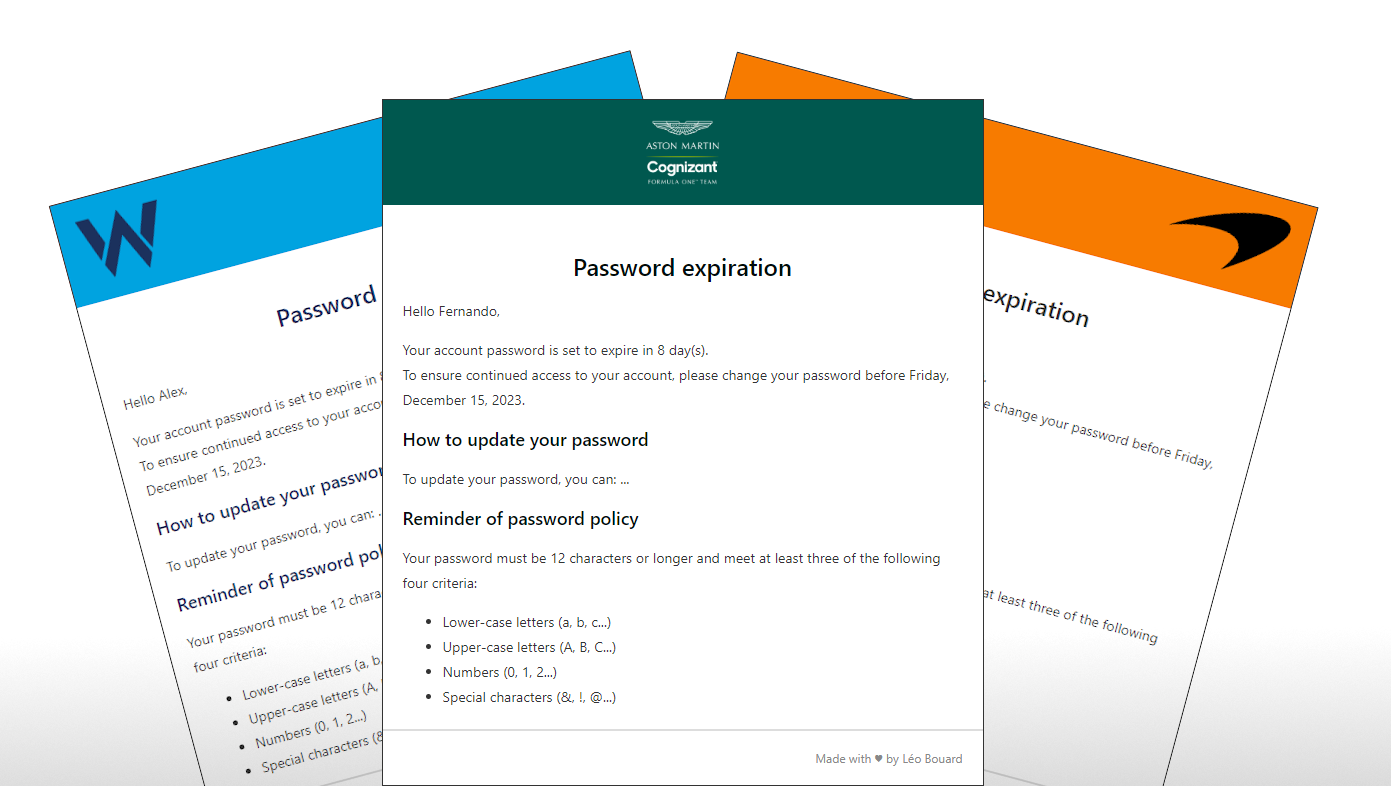
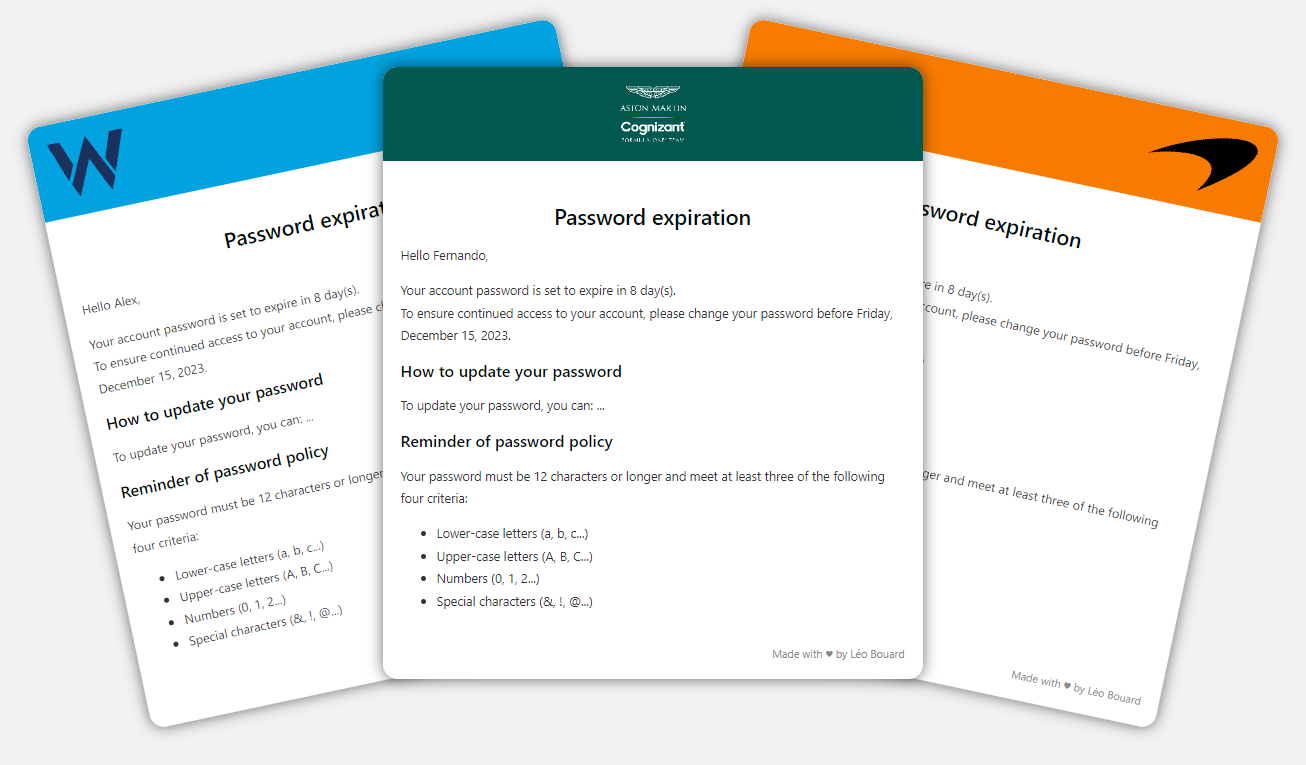
New preview image
Since I'm pretty bad with paint.NET for this stuff, I've done the preview in HTML :laughing:

diff --git a/mockup/illustration.html b/mockup/illustration.html
@@ -1,0 +1,185 @@
+<html>
+  <head>
+    <style>
+      body {
+        display: flex;
+        background-color: #f2f2f2;
+        padding: 1em;
+        margin: auto;
+        font-family: Segoe UI,sans-serif;
+        max-width: 1000px;
+      }
+
+      div {
+        height: 100%;
+        width: 100%;
+        line-height: 100%;
+      }
+
+      table {
+        border-radius: 1em;
+        overflow: hidden;
+        box-shadow: 0px 0 15px 1px #00000080;
+        position: absolute;
+        top: 75px;
+      }
+
+      .williams {
+        transform: rotate(-12deg);
+      }
+
+      .aston-martin {
+        z-index: 10;
+      }
+
+      .mclaren {
+        transform: rotate(12deg);
+      }
+
+      h1, h2, h3, h4, h5 {
+        color: #010b0a;
+        font-weight: 500;
+      }
+
+      h1 {
+        margin-top: 25px;
+        text-align: center;
+        font-size: x-large;
+      }
+
+      h2 {
+        font-size: large;
+      }
+
+      h3 {
+        font-size: larger;
+      }
+
+      p, li {
+        color: #333;
+        font-size: 14px;
+        white-space:normal;
+        line-height:25px;
+      }
+
+      ul {
+        margin: 0px;
+      }
+    </style>
+  </head>
+  <body>
+
+    <div>
+        <table class="williams" bgcolor="ffffff" align="center" border="0" cellpadding="20%" cellspacing="0" width="100%" style="width: 100%; max-width: 600px; min-height: 450px;">
+          <!-- HEADER -->
+          <tr>
+            <td bgcolor="00a3e0" align="left" style="height:85px;">
+              <img src="https://gritaradio.com/wp-content/uploads/2019/02/Logo_Williams_F1.png" height="65" alt="Logo">
+            </td>
+          </tr>
+          <!-- CONTENT -->
+          <tr>
+            <td>
+              <h1 id="password-expiration">Password expiration</h1>
+              <p>Hello Alex,</p>
+              <p>Your account password is set to expire in 8 day(s).<br>
+              To ensure continued access to your account, please change your password before Friday, December 15, 2023.</p>
+              <h2 id="how-to-update-your-password">How to update your password</h2>
+              <p>To update your password, you can: ...</p>
+              <h2 id="reminder-of-password-policy">Reminder of password policy</h2>
+              <p>Your password must be 12 characters or longer and meet at least three of the following four criteria:</p>
+              <ul>
+              <li>Lower-case letters (a, b, c...)</li>
+              <li>Upper-case letters (A, B, C...)</li>
+              <li>Numbers (0, 1, 2...)</li>
+              <li>Special characters (&amp;, !, @...)</li>
+              </ul>
+            </td>
+          </tr>
+          <!-- FOOTER -->
+          <tr style="border-top: 2px solid #ddd; height: 35px;">
+            <td>
+              <p style="color: #888; font-size: 12px; line-height: 120%; text-align: right;">Made with ♥ by Léo Bouard</p>
+            </td>
+          </tr>
+      
+        </table>
+      </div>
+
+    <div>
+      <table class="aston-martin" bgcolor="ffffff" align="center" border="0" cellpadding="20%" cellspacing="0" width="100%" style="width: 100%; max-width: 600px; min-height: 450px;">
+        <!-- HEADER -->
+        <tr>
+          <td bgcolor="00584f" align="center" style="height:85px;">
+            <img src="https://tork.news/__export/1610294200254/sites/tork/img/2021/01/10/amf1_cognizant_team_logo-jpg.jpg_554688468.jpg" height="65" alt="Logo">
+          </td>
+        </tr>
+        <!-- CONTENT -->
+        <tr>
+          <td>
+            <h1 id="password-expiration">Password expiration</h1>
+            <p>Hello Fernando,</p>
+            <p>Your account password is set to expire in 8 day(s).<br>
+            To ensure continued access to your account, please change your password before Friday, December 15, 2023.</p>
+            <h2 id="how-to-update-your-password">How to update your password</h2>
+            <p>To update your password, you can: ...</p>
+            <h2 id="reminder-of-password-policy">Reminder of password policy</h2>
+            <p>Your password must be 12 characters or longer and meet at least three of the following four criteria:</p>
+            <ul>
+            <li>Lower-case letters (a, b, c...)</li>
+            <li>Upper-case letters (A, B, C...)</li>
+            <li>Numbers (0, 1, 2...)</li>
+            <li>Special characters (&amp;, !, @...)</li>
+            </ul>
+          </td>
+        </tr>
+        <!-- FOOTER -->
+        <tr style="border-top: 2px solid #ddd; height: 35px;">
+          <td>
+            <p style="color: #888; font-size: 12px; line-height: 120%; text-align: right;">Made with ♥ by Léo Bouard</p>
+          </td>
+        </tr>
+    
+      </table>
+    </div>
+
+    <div>
+        <table class="mclaren" bgcolor="ffffff" align="center" border="0" cellpadding="20%" cellspacing="0" width="100%" style="width: 100%; max-width: 600px; min-height: 450px;">
+          <!-- HEADER -->
+          <tr>
+            <td bgcolor="f77b00" align="right" style="height:85px;">
+              <img src="https://upload.wikimedia.org/wikipedia/commons/thumb/c/cb/McLaren_Speedmark.svg/1280px-McLaren_Speedmark.svg.png" height="65" alt="Logo">
+            </td>
+          </tr>
+          <!-- CONTENT -->
+          <tr>
+            <td>
+              <h1 id="password-expiration">Password expiration</h1>
+              <p>Hello Lando,</p>
+              <p>Your account password is set to expire in 8 day(s).<br>
+              To ensure continued access to your account, please change your password before Friday, December 15, 2023.</p>
+              <h2 id="how-to-update-your-password">How to update your password</h2>
+              <p>To update your password, you can: ...</p>
+              <h2 id="reminder-of-password-policy">Reminder of password policy</h2>
+              <p>Your password must be 12 characters or longer and meet at least three of the following four criteria:</p>
+              <ul>
+              <li>Lower-case letters (a, b, c...)</li>
+              <li>Upper-case letters (A, B, C...)</li>
+              <li>Numbers (0, 1, 2...)</li>
+              <li>Special characters (&amp;, !, @...)</li>
+              </ul>
+            </td>
+          </tr>
+          <!-- FOOTER -->
+          <tr style="border-top: 2px solid #ddd; height: 35px;">
+            <td>
+              <p style="color: #888; font-size: 12px; line-height: 120%; text-align: right;">Made with ♥ by Léo Bouard</p>
+            </td>
+          </tr>
+      
+        </table>
+      </div>
+
+    <!-- TWFkZSB3aXRoIOKdpO+4jyBieSBMw6lvIEJvdWFyZA== -->
+  </body>
+</html>
